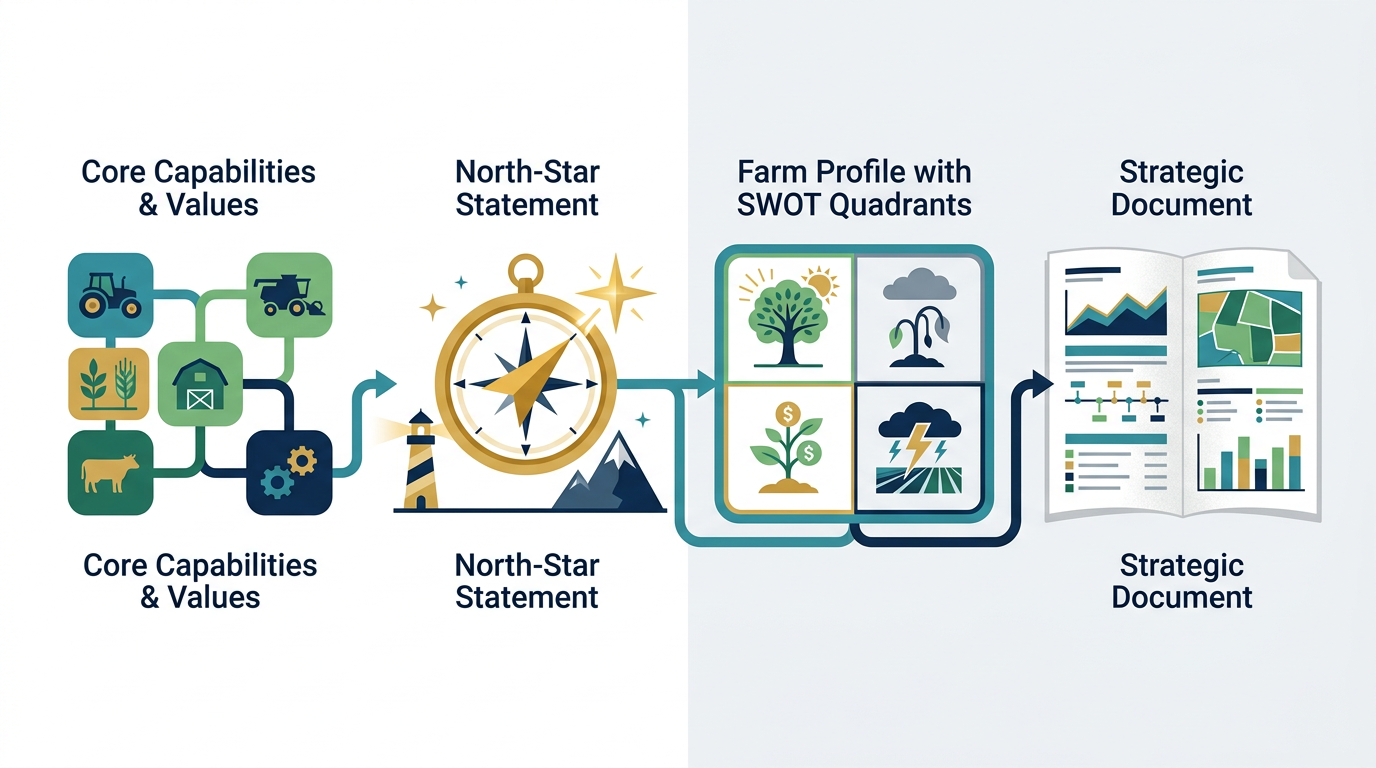
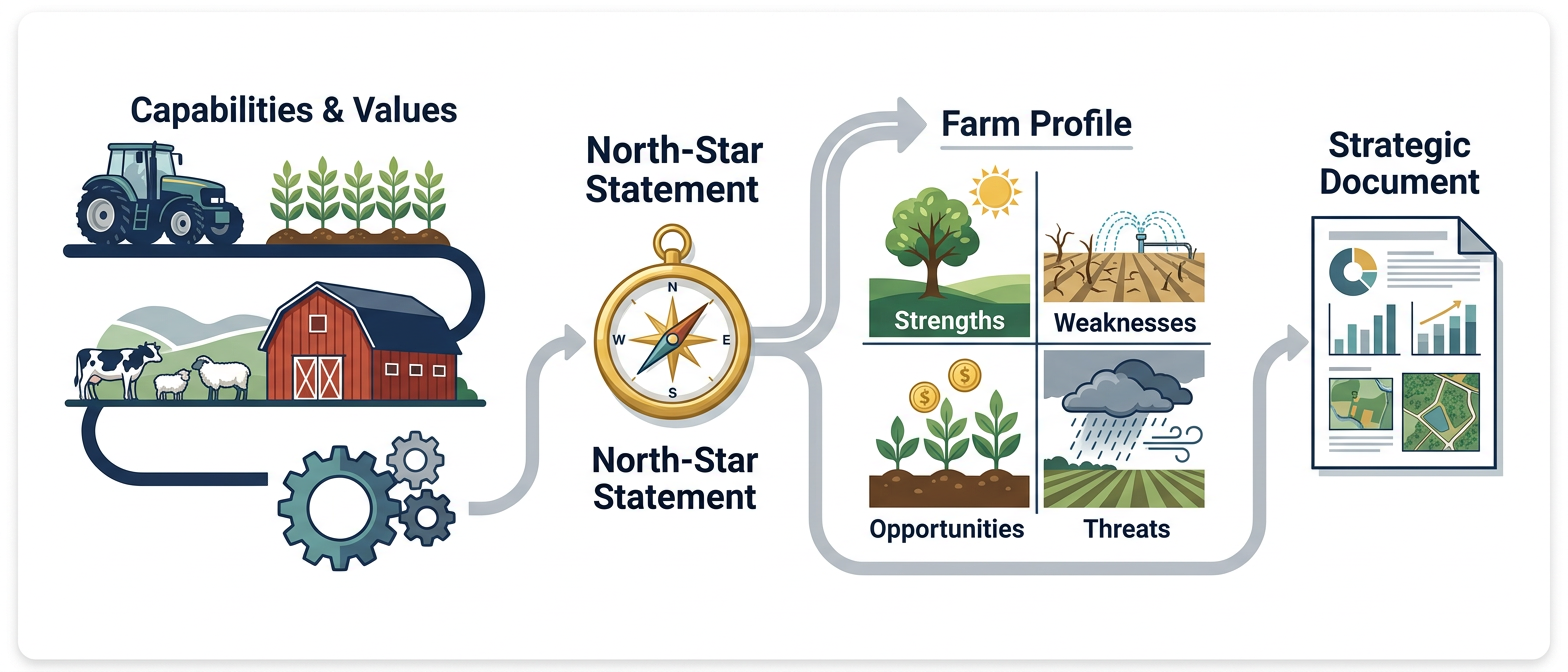
Replace blurred roadmap visual with high-resolution asset

diff --git a/src/App.jsx b/src/App.jsx
@@ -911,7 +911,7 @@ function FA3({ fa, setFA }) {
 
 // ────────────���───────────────��──────────────���──────────────────────────────��──
 // FA STAGE 4 — Peer benchmarking
-// ────────────────────────────────────────────────────────���──────────────────���─
+// ────────────────────────────────��───────────────────────���──────────────────���─
 function FA4({ fa, setFA }) {
   const b = fa.s4bench;
   const v = id => b[id]||""; const sv = (id,val) => setFA(s=>({...s,s4bench:{...s.s4bench,[id]:val}})); const gv = id => parseFloat(b[id]);
@@ -4142,7 +4142,7 @@ const valueParcel = (p) => {
 
 // ══════════════════════════════════════════════════════════════��══════════════
 // BLIND COMPARE — the same questions, answered independently
-// ��════��═══════════════════════════════════════════════════════════════════════
+// ��════��══════════════════════════════════════════════════════════════���════════
 // One array drives both sides and the comparison, so the two generations are
 // provably answering the same question rather than two similar ones.
 //
@@ -6499,7 +6499,7 @@ const GENERIC_FARM_FINANCIALS = {
   livingWithdrawals:"68000", incomeTaxes:"34000",
 };
 
-const VisionInlineVisual = ({ stageLabel }) => <div style={{ margin:"4px 0 26px", borderRadius:16, overflow:"hidden", border:`1px solid ${T.div}`, background:T.bgAlt }}><img src="/strategic-vision-roadmap.png" alt="Strategic vision roadmap toward a decision-ready farm document" style={{ display:"block", width:"100%", height:150, objectFit:"cover" }} /><div style={{ display:"flex", justifyContent:"space-between", gap:10, padding:"10px 14px", color:T.fgS, fontSize:11.5 }}><span>{stageLabel}</span><span style={{ color:T.green, fontWeight:700 }}>Vision in progress</span></div></div>;
+const VisionInlineVisual = ({ stageLabel }) => <div style={{ margin:"4px 0 26px", borderRadius:16, overflow:"hidden", border:`1px solid ${T.div}`, background:T.bgAlt }}><img src="/strategic-vision-roadmap.png" alt="Strategic vision roadmap toward a decision-ready farm document" style={{ display:"block", width:"100%", height:"auto", aspectRatio:"16 / 7", objectFit:"contain" }} /><div style={{ display:"flex", justifyContent:"space-between", gap:10, padding:"10px 14px", color:T.fgS, fontSize:11.5 }}><span>{stageLabel}</span><span style={{ color:T.green, fontWeight:700 }}>Vision in progress</span></div></div>;
 
 export default function App() {
   const [module, setModule] = useState("vision");
